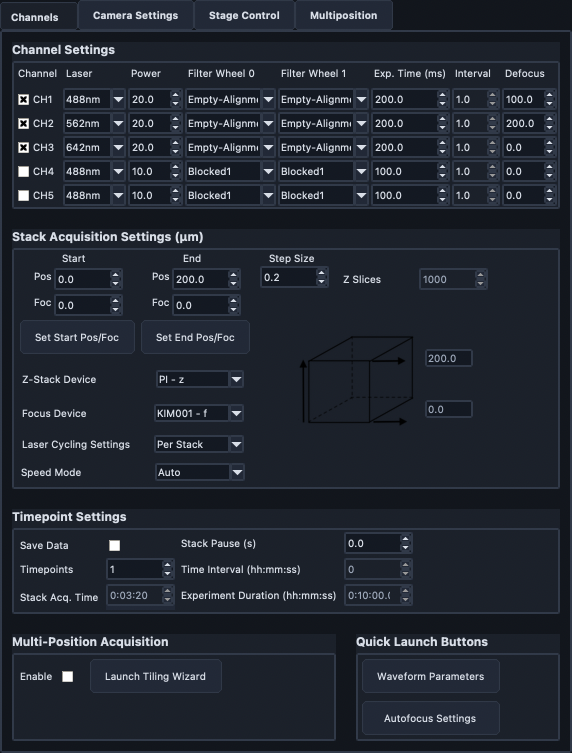
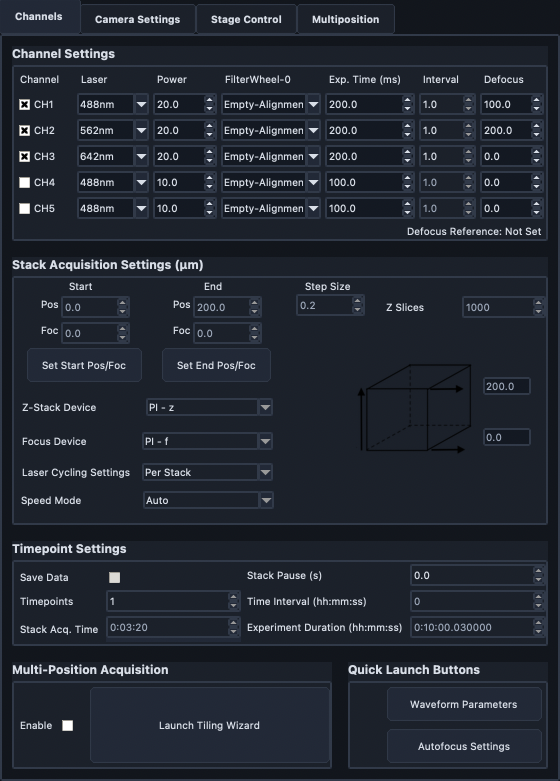
docs: refresh defocus GUI screenshots

diff --git a/docs/capture_gui.py b/docs/capture_gui.py
@@ -227,8 +227,19 @@ def _build_controller_context() -> Dict[str, object]:
     root.withdraw()
     splash_screen = SplashScreen(root, _splash_image_path())
 
+    config_dir = SRC_DIR / "navigate" / "config"
     parser = create_parser()
-    args = parser.parse_args(["-sh"])
+    args = parser.parse_args(
+        [
+            "-sh",
+            "--config-file",
+            str(config_dir / "configuration.yaml"),
+            "--experiment-file",
+            str(config_dir / "experiment.yml"),
+            "--gui-config-file",
+            str(config_dir / "gui_configuration.yml"),
+        ]
+    )
 
     (
         configuration_path,
@@ -1590,10 +1601,22 @@ def _capture_popup_save_dialog_bdv_settings(
 def _capture_popup_autofocus(
     ctx: Dict[str, object], cli_args: argparse.Namespace
 ) -> str:
-    from navigate.view.popups.autofocus_setting_popup import AutofocusPopup
+    controller = ctx["controller"]
+    out_path, should_skip = _popup_capture_target(cli_args, "autofocus_settings")
+    if should_skip:
+        return out_path
 
-    popup_obj = AutofocusPopup(ctx["controller"].view)
-    return _capture_popup_obj(ctx, cli_args, popup_obj, "autofocus_settings")
+    _cleanup_controller_popup_attr(controller, "af_popup_controller")
+    controller.menu_controller.popup_autofocus_setting()
+    popup_controller = controller.af_popup_controller
+    popup_controller.widgets["calibration_action"].set("Auto Defocus")
+    popup = popup_controller.view.popup
+
+    try:
+        _prepare_for_capture(popup, cli_args)
+        return _capture_widget(popup, out_path, pad=2)
+    finally:
+        _cleanup_controller_popup_attr(controller, "af_popup_controller")
 
 
 def _capture_popup_camera_map_settings(

diff --git a/docs/superpowers/plans/2026-07-21-pr-1225-gui-documentation.md b/docs/superpowers/plans/2026-07-21-pr-1225-gui-documentation.md
@@ -1,0 +1,239 @@
+# PR #1225 GUI Documentation Implementation Plan
+
+> **For agentic workers:** REQUIRED SUB-SKILL: Use superpowers:subagent-driven-development (recommended) or superpowers:executing-plans to implement this plan task-by-task. Steps use checkbox (`- [ ]`) syntax for tracking.
+
+**Goal:** Regenerate the three screenshots affected by PR #1225 and make the channel-defocus and autofocus-calibration documentation match the GUI and implemented behavior.
+
+**Architecture:** Keep the existing capture registry and focused capture IDs. Build the capture controller from the repository's canonical configuration files, route only the autofocus capture through the real controller so the popup contains realistic values, generate the affected assets in an empty temporary directory, and rewrite only the three existing defocus/autofocus passages.
+
+**Tech Stack:** Python 3.9 in the `navigate` conda environment, Tk/ttk, `docs/capture_gui.py`, PNG, Sphinx 5.3, reStructuredText.
+
+## Global Constraints
+
+- Work on `kdean/defocus` in `/Users/Dean/.config/superpowers/worktrees/navigate/pr-1225-docs`.
+- Put the worktree `src` first on `PYTHONPATH`; do not import the restored `develop` checkout.
+- Regenerate only `ChannelsTab.png`, `channel-selector.png`, and `popup_autofocus_settings.png`.
+- Show `Defocus Reference: Not Set` in Channel Settings and `Auto Defocus` in the autofocus popup.
+- Use the repository's Mesoscale example configuration rather than the active user's selected microscope.
+- Do not change application behavior or unrelated screenshots.
+- Use valid reStructuredText role syntax with no whitespace before role backticks.
+
+---
+
+### Task 1: Capture controller-populated GUI states
+
+**Files:**
+- Modify: `docs/capture_gui.py:220-255`
+- Modify: `docs/capture_gui.py:1590-1597`
+- Modify: `docs/source/images/ChannelsTab.png`
+- Modify: `docs/source/images/channel-selector.png`
+- Modify: `docs/source/images/popup_autofocus_settings.png`
+- Test: visual red/green capture of `popup-autofocus-settings`
+
+**Interfaces:**
+- Consumes: `controller.menu_controller.popup_autofocus_setting()`, `controller.af_popup_controller`, `_popup_capture_target()`, `_prepare_for_capture()`, `_capture_widget()`, and `_cleanup_controller_popup_attr()`.
+- Produces: the existing capture ID with controller-populated values and three updated PNG assets at their existing paths.
+
+- [x] **Step 1: Capture the failing visual baseline**
+
+```bash
+capture_before="$(mktemp -d /tmp/navigate-pr1225-before.XXXXXX)"
+PYTHONPATH=/Users/Dean/.config/superpowers/worktrees/navigate/pr-1225-docs/src \
+  /opt/anaconda3/envs/navigate/bin/python docs/capture_gui.py \
+  --capture popup-autofocus-settings --output-root "$capture_before"
+```
+
+Expected: the PNG is created, but Device Type, Focusing Axis, Channel, and selected Calibration values are blank; `Auto Defocus` is not visible as the selected action.
+
+- [x] **Step 2: Make the controller context use canonical documentation inputs**
+
+```python
+config_dir = SRC_DIR / "navigate" / "config"
+parser = create_parser()
+args = parser.parse_args(
+    [
+        "-sh",
+        "--config-file",
+        str(config_dir / "configuration.yaml"),
+        "--experiment-file",
+        str(config_dir / "experiment.yml"),
+        "--gui-config-file",
+        str(config_dir / "gui_configuration.yml"),
+    ]
+)
+```
+
+Expected: captures use the repository's Mesoscale example, including its filter-wheel columns, regardless of the active user experiment.
+
+- [x] **Step 3: Replace `_capture_popup_autofocus()` with the real controller path**
+
+```python
+def _capture_popup_autofocus(
+    ctx: Dict[str, object], cli_args: argparse.Namespace
+) -> str:
+    controller = ctx["controller"]
+    out_path, should_skip = _popup_capture_target(
+        cli_args, "autofocus_settings"
+    )
+    if should_skip:
+        return out_path
+
+    _cleanup_controller_popup_attr(controller, "af_popup_controller")
+    controller.menu_controller.popup_autofocus_setting()
+    popup_controller = controller.af_popup_controller
+    popup_controller.widgets["calibration_action"].set("Auto Defocus")
+    popup = popup_controller.view.popup
+
+    try:
+        _prepare_for_capture(popup, cli_args)
+        return _capture_widget(popup, out_path, pad=2)
+    finally:
+        _cleanup_controller_popup_attr(controller, "af_popup_controller")
+```
+
+- [x] **Step 4: Capture the green visual result**
+
+```bash
+capture_after="$(mktemp -d /tmp/navigate-pr1225-after.XXXXXX)"
+PYTHONPATH=/Users/Dean/.config/superpowers/worktrees/navigate/pr-1225-docs/src \
+  /opt/anaconda3/envs/navigate/bin/python docs/capture_gui.py \
+  --capture popup-autofocus-settings --output-root "$capture_after"
+```
+
+Expected: the popup shows populated Device Type and Focusing Axis controls, an active `CHn`, `Auto Defocus`, `Reference: none`, and populated scan parameters without clipping or tooltip artifacts.
+
+- [x] **Step 5: Generate exactly the three affected assets**
+
+```bash
+capture_final="$(mktemp -d /tmp/navigate-pr1225-final.XXXXXX)"
+PYTHONPATH=/Users/Dean/.config/superpowers/worktrees/navigate/pr-1225-docs/src \
+  /opt/anaconda3/envs/navigate/bin/python docs/capture_gui.py \
+  --capture settings-channels --capture channel-selector \
+  --capture popup-autofocus-settings --output-root "$capture_final"
+cp "$capture_final/ChannelsTab.png" docs/source/images/ChannelsTab.png
+cp "$capture_final/channel-selector.png" docs/source/images/channel-selector.png
+cp "$capture_final/popup_autofocus_settings.png" docs/source/images/popup_autofocus_settings.png
+```
+
+Expected: only the three named image paths change.
+
+- [x] **Step 6: Inspect the three installed PNGs at original resolution**
+
+Inspect `docs/source/images/ChannelsTab.png`, `docs/source/images/channel-selector.png`, and `docs/source/images/popup_autofocus_settings.png` with the image viewer. Confirm the complete `Defocus Reference: Not Set` row, all autofocus labels and values, clean borders, and legible text.
+
+- [x] **Step 7: Lint and commit the capture update**
+
+```bash
+/Users/Dean/.local/bin/ruff check --ignore E402 docs/capture_gui.py
+git diff --check
+git add docs/capture_gui.py docs/source/images/ChannelsTab.png \
+  docs/source/images/channel-selector.png \
+  docs/source/images/popup_autofocus_settings.png \
+  docs/superpowers/plans/2026-07-21-pr-1225-gui-documentation.md \
+  docs/superpowers/specs/2026-07-21-pr-1225-gui-documentation-design.md
+git commit -m "docs: refresh defocus GUI screenshots"
+```
+
+Expected: Ruff and whitespace validation exit 0 before the capture commit is created. `E402` is excluded because this script intentionally adds the checkout's `src` directory before its Navigate imports; the same five `E402` findings are present before this change.
+
+---
+
+### Task 2: Clarify channel defocus and autofocus calibration
+
+**Files:**
+- Modify: `docs/source/01_getting_started/06_acquiring_data.rst:54-55`
+- Modify: `docs/source/02_user_guide/03_user_interface_walkthrough/03_acquisition_and_settings_notebooks.rst:56-57`
+- Modify: `docs/source/02_user_guide/03_user_interface_walkthrough/06_popups_and_tools.rst:36-66`
+- Test: Sphinx HTML build with warnings treated as errors
+
+**Interfaces:**
+- Consumes: the GUI labels and behavior implemented by PR #1225 and the screenshots from Task 1.
+- Produces: beginner instructions and reference text that distinguish the acquisition reference from the popup's calibration reference.
+
+- [ ] **Step 1: Replace the beginner Defocus bullet**
+
+```rst
+    * Set :guilabel:`Defocus` to ``0`` unless the channel has a measured chromatic focus offset. Defocus is a per-channel offset from the zero-defocus focus position, not an absolute focus coordinate. At acquisition start, **navigate** derives that zero-defocus position from the current focus and the active channel's defocus, then applies each channel's offset. The status below the table reports the current reference; see :ref:`Autofocus Settings <ui_autofocus>` to measure channel offsets automatically.
+```
+
+- [ ] **Step 2: Make the Channels reference concise and explain its status row**
+
+```rst
+6. :guilabel:`Defocus`: channel-specific offset from the zero-defocus focus position.
+
+At acquisition start, **navigate** derives the zero-defocus position from the
+current focus and the active channel's defocus. It then moves each channel to
+that reference position plus the channel's offset. :guilabel:`Defocus Reference`
+shows the reference channel and, when an acquisition reference is active, its
+focus position. Manual focus motion invalidates the active acquisition reference.
+```
+
+- [ ] **Step 3: Replace the autofocus calibration paragraphs with action-specific guidance**
+
+```rst
+The :guilabel:`Channel` must be active in Channel Settings. Choose a
+:guilabel:`Calibration` action before pressing :guilabel:`Start Autofocus`:
+
+* :guilabel:`Regular` focuses the selected channel without calculating a channel
+  offset.
+* :guilabel:`Capture Reference` focuses the selected channel, makes it the
+  zero-defocus calibration channel, and retains its best-focus position for the
+  current calibration sequence.
+* :guilabel:`Populate Defocus` focuses the selected channel and writes the
+  difference from the previously captured reference into that channel's
+  :guilabel:`Defocus` value. Capture a reference first.
+* :guilabel:`Auto Defocus` uses the selected channel as the reference, focuses
+  every other active channel, and populates all active channel offsets in one
+  sequence. Stop any acquisition before starting it.
+
+The popup's :guilabel:`Reference` status reports the calibration reference.
+:guilabel:`Populate Defocus` requires the captured focus retained by the current
+popup session. The resulting per-channel :guilabel:`Defocus` values are stored
+with the experiment settings and are used during acquisition.
+```
+
+- [ ] **Step 4: Build the HTML documentation with strict warnings**
+
+```bash
+PYTHONPATH=/Users/Dean/.config/superpowers/worktrees/navigate/pr-1225-docs/src \
+  /opt/anaconda3/envs/navigate/bin/sphinx-build \
+  -W --keep-going -b html docs/source docs/build/html
+```
+
+Expected: exit 0 with no malformed roles, missing image errors, or other warnings.
+
+- [ ] **Step 5: Run the focused PR tests against the worktree source**
+
+```bash
+PYTHONPATH=/Users/Dean/.config/superpowers/worktrees/navigate/pr-1225-docs/src \
+  /opt/anaconda3/envs/navigate/bin/python -m pytest -o addopts='' \
+  test/controller/sub_controllers/test_autofocus.py \
+  test/controller/sub_controllers/test_channels_tab.py \
+  test/model/test_microscope.py -q
+```
+
+Expected: `30 passed` and no failures.
+
+- [ ] **Step 6: Verify and commit the documentation**
+
+```bash
+git diff --check
+git diff -- docs/source/01_getting_started/06_acquiring_data.rst \
+  docs/source/02_user_guide/03_user_interface_walkthrough/03_acquisition_and_settings_notebooks.rst \
+  docs/source/02_user_guide/03_user_interface_walkthrough/06_popups_and_tools.rst
+git add docs/source/01_getting_started/06_acquiring_data.rst \
+  docs/source/02_user_guide/03_user_interface_walkthrough/03_acquisition_and_settings_notebooks.rst \
+  docs/source/02_user_guide/03_user_interface_walkthrough/06_popups_and_tools.rst
+git commit -m "docs: explain channel defocus calibration"
+```
+
+- [ ] **Step 7: Push and verify PR #1225**
+
+```bash
+git push origin kdean/defocus
+git rev-parse HEAD
+git ls-remote --heads origin kdean/defocus
+gh pr view 1225 --json headRefOid,url,statusCheckRollup
+```
+
+Expected: local `HEAD`, the remote branch SHA, and PR #1225's `headRefOid` are identical.

diff --git a/docs/superpowers/specs/2026-07-21-pr-1225-gui-documentation-design.md b/docs/superpowers/specs/2026-07-21-pr-1225-gui-documentation-design.md
@@ -26,9 +26,11 @@ out of scope.
 
 ## Capture Behavior
 
-`docs/capture_gui.py` will continue to use the existing focused capture IDs. The
-autofocus capture will populate deterministic representative values for the new
-controls before taking the screenshot. Channel Settings captures will show the
+`docs/capture_gui.py` will continue to use the existing focused capture IDs and
+will build its controller from the repository's canonical configuration files
+instead of the active user experiment. The autofocus capture will populate
+deterministic representative values for the new controls before taking the
+screenshot. Channel Settings captures will show the
 default `Defocus Reference: Not Set` state because that is the state users first
 encounter before acquisition establishes a runtime reference.
 
@@ -58,7 +60,7 @@ syntax, including no whitespace between role names and their backticks.
 - Inspect all three generated PNGs for complete controls, readable labels,
   consistent theme, and clean cropping.
 - Build the Sphinx HTML documentation with warnings treated as errors.
-- Run `ruff` against `docs/capture_gui.py` if that script changes.
+- Run `ruff` against `docs/capture_gui.py` if that script changes, excluding the
+  file's existing `E402` exceptions for checkout-path bootstrapping.
 - Run `git diff --check` and confirm the final diff contains only the intended
   design, capture, image, and documentation files.
-
